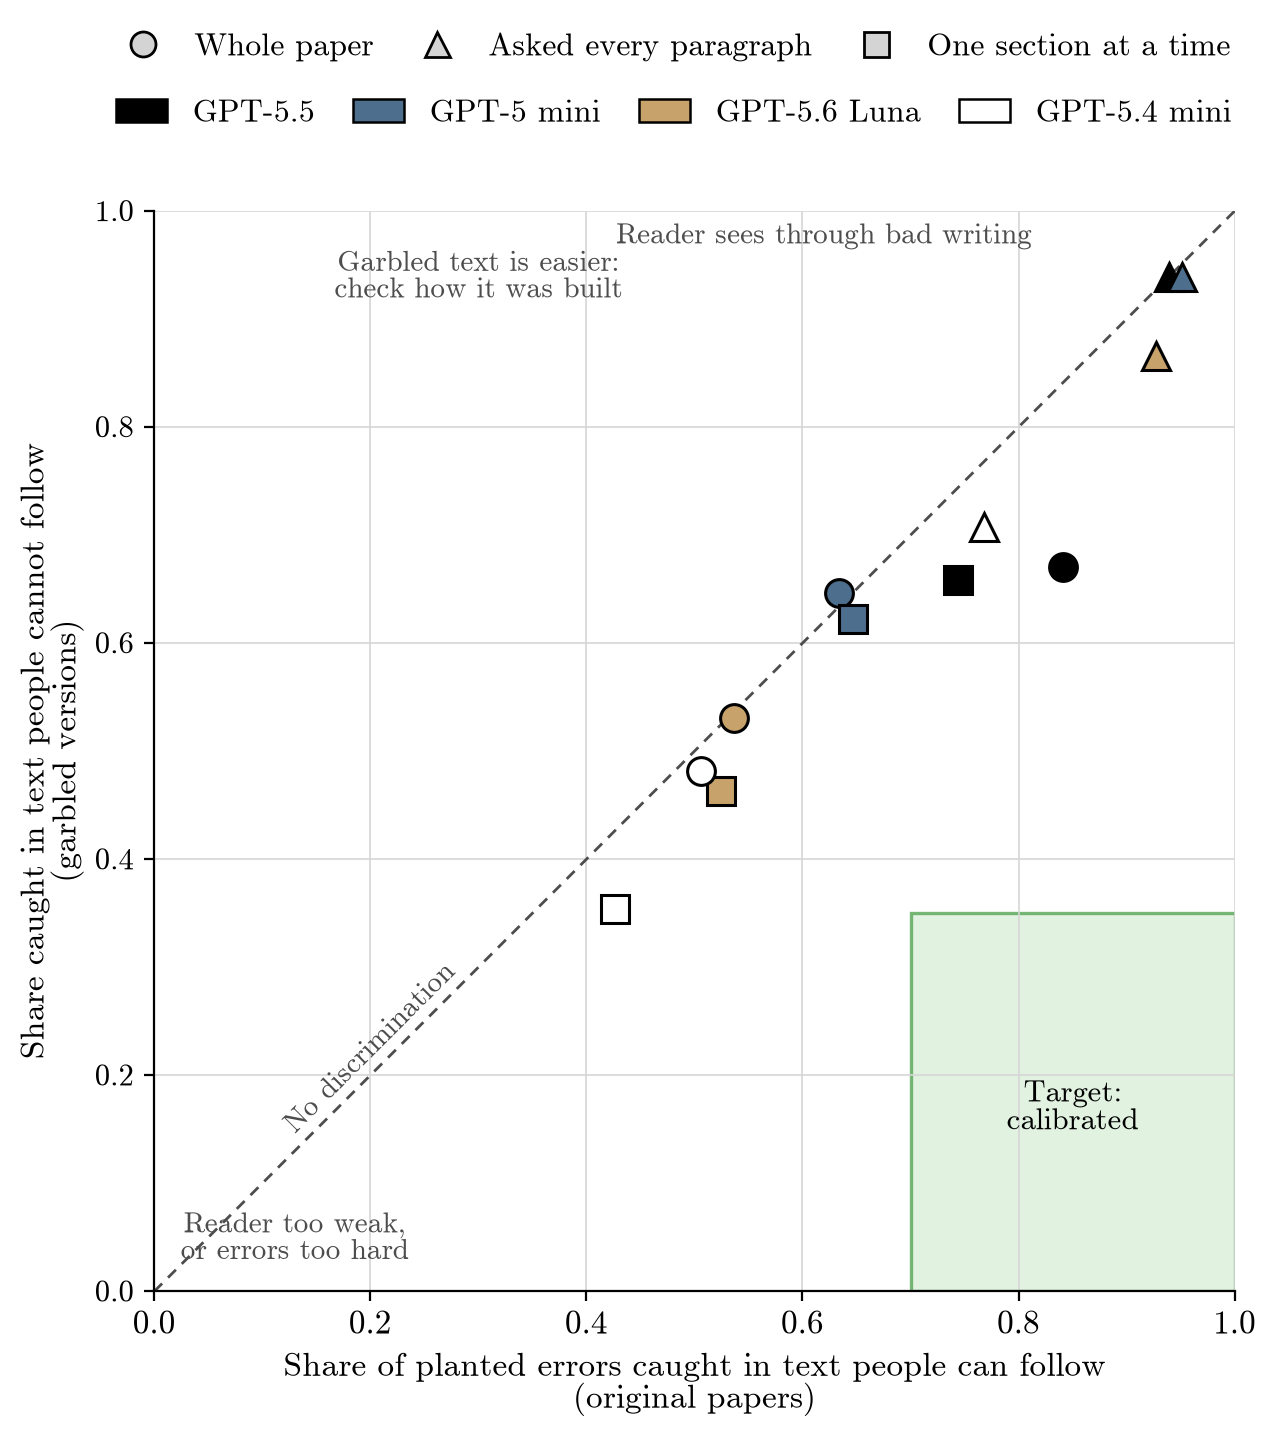
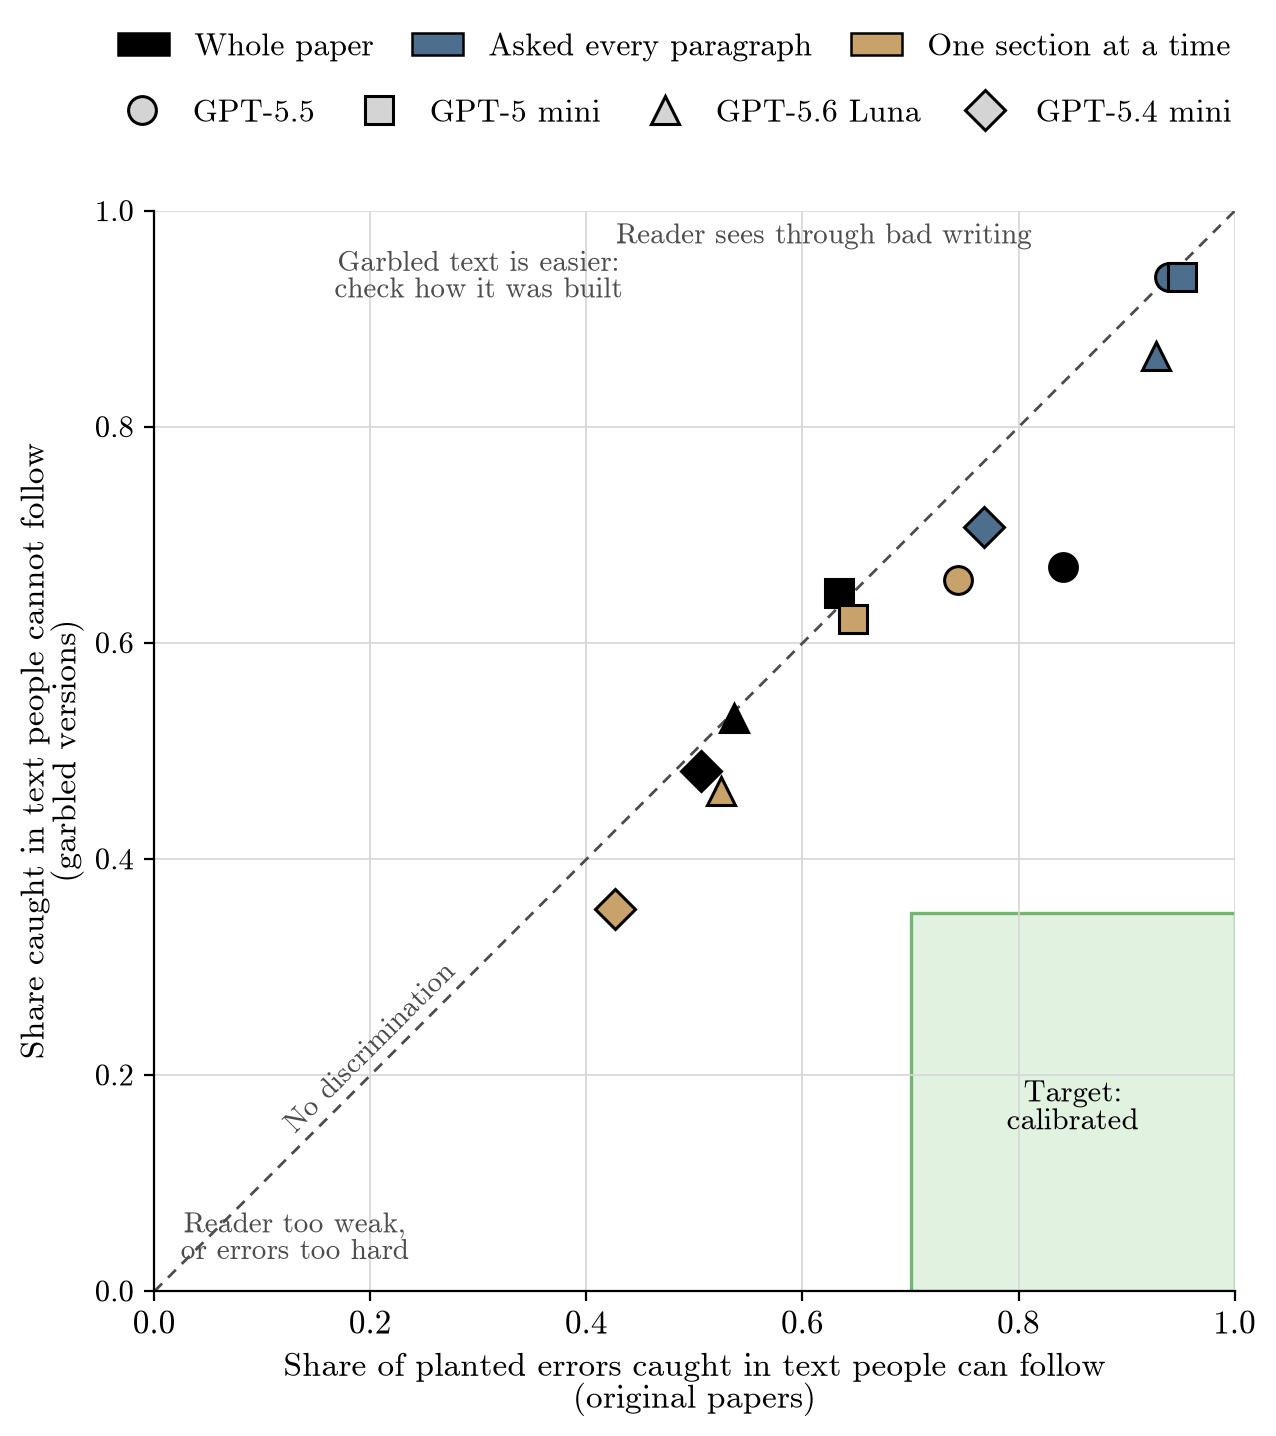
Part 2 Fig 4: reading method by fill, model by shape

diff --git a/posts/part-2-planted-errors.md b/posts/part-2-planted-errors.md
@@ -68,9 +68,9 @@ The line between legible and illegible is drawn by people. A paper they can foll
 
 To calibrate, we would run a setting on text whose legibility to people we already know, such as published papers, which people can follow, and garbled versions, which they cannot. A calibrated setting catches most errors in the first and few in the second. We have not done this tuning yet. Every setting in this post was fixed before we ran it, so Figure 4 only maps where those settings landed.
 
-![Calibration map pooled over ten papers: each reader setting's catch rate on original papers against its catch rate on garbled versions. Marker shape shows how the reader read the paper and fill shows which reader. Most settings sit near the diagonal; GPT-5.5 with the whole paper sits below it, still far above the green target corner. Asked about every paragraph, the readers sit near the top corner.](../docs/blog/part-2/fig-4-calibration-map.png)
+![Calibration map pooled over ten papers: each reader setting's catch rate on original papers against its catch rate on garbled versions. Fill shows how the reader read the paper and marker shape shows which reader. Most settings sit near the diagonal; GPT-5.5 with the whole paper sits below it, still far above the green target corner. Asked about every paragraph, the readers sit near the top corner.](../docs/blog/part-2/fig-4-calibration-map.png)
 
-**Figure 4.** Each point is one reader setting, pooled over all ten papers. Its position shows the share of planted errors caught in the original papers (horizontal) and in their garbled versions (vertical). Circles read the whole paper, triangles were asked about every paragraph, and squares read one section at a time. The fill shows which reader. On the dashed diagonal a setting cannot tell the two apart, and the green corner is the target.
+**Figure 4.** Each point is one reader setting, pooled over all ten papers. Its position shows the share of planted errors caught in the original papers (horizontal) and in their garbled versions (vertical). Black points read the whole paper, blue points were asked about every paragraph, and ochre points read one section at a time. The shape shows which reader. On the dashed diagonal a setting cannot tell the two apart, and the green corner is the target.
 
 Most settings sit near the diagonal. To calibrate, we need to know which changes move a setting off it and in which direction, so Figure 5 traces every change we have measured on the same map.
 
